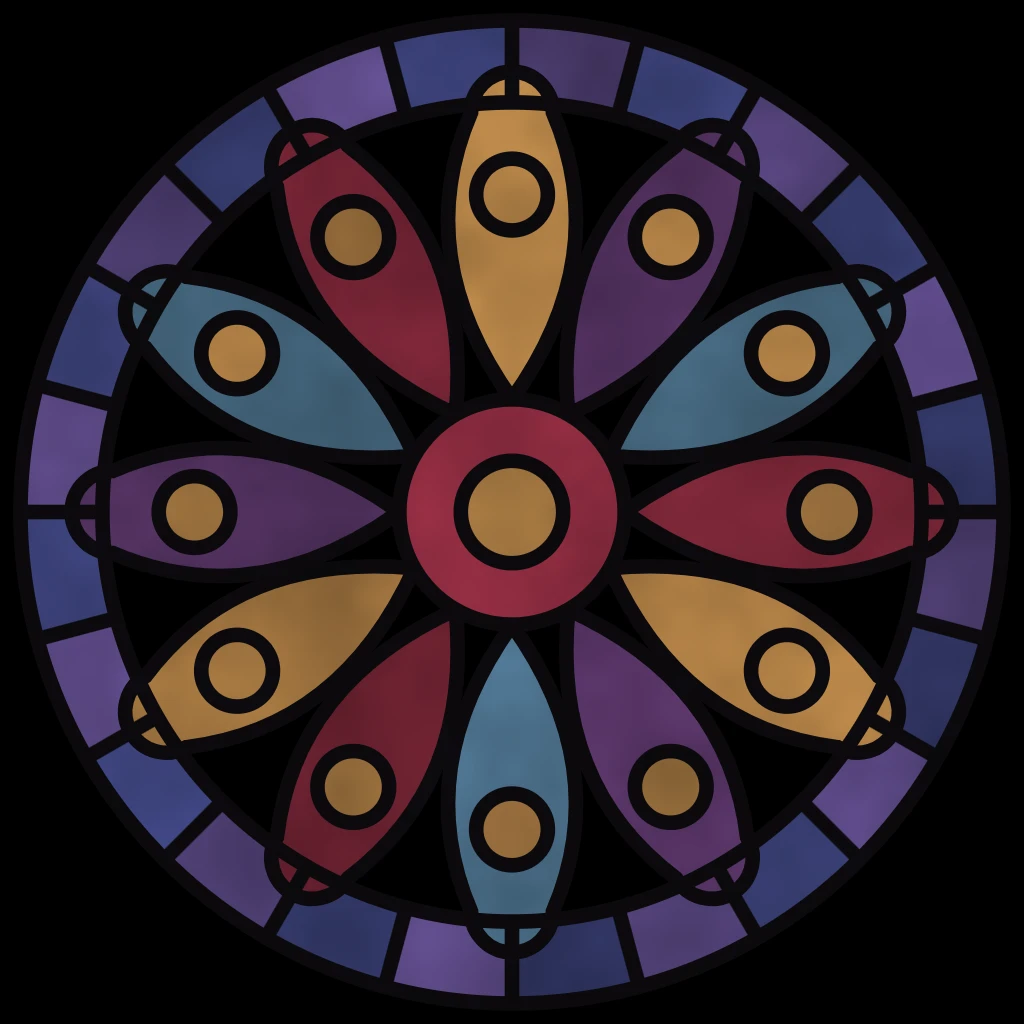
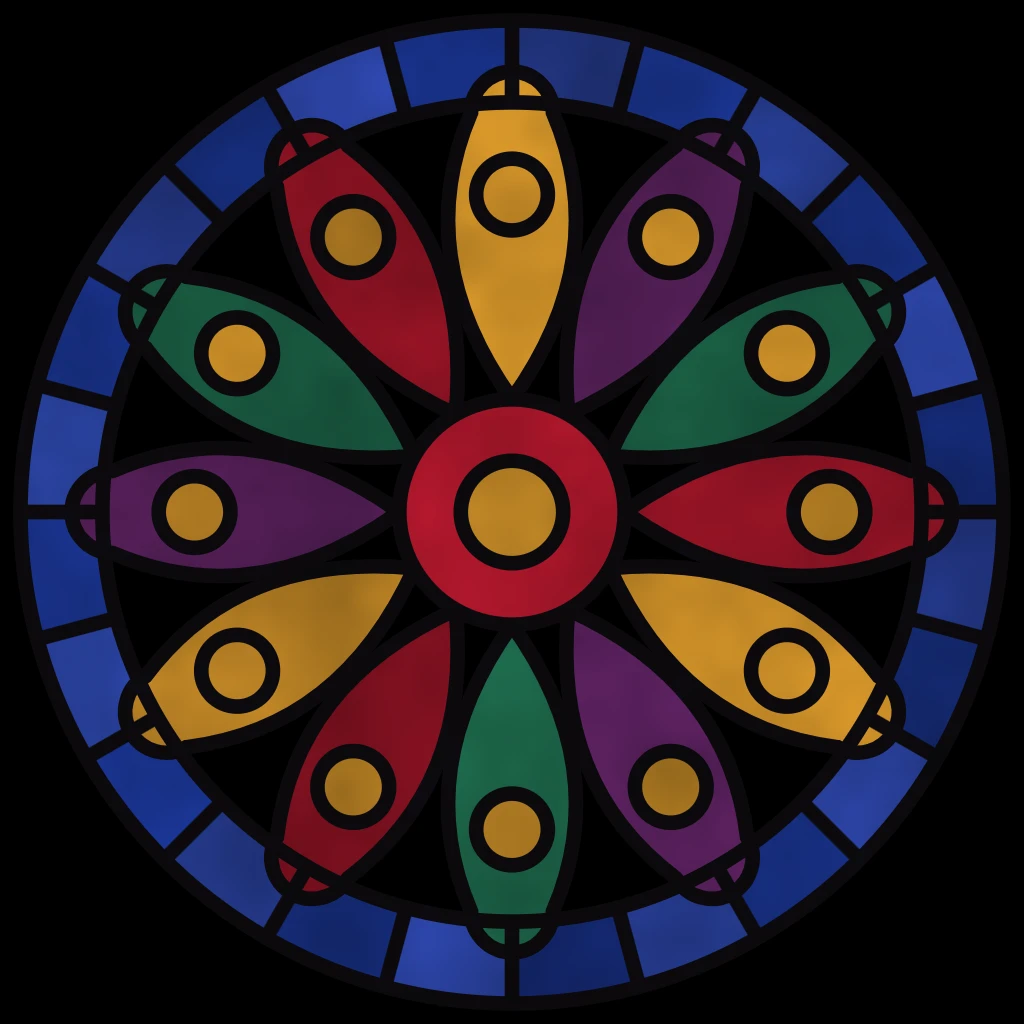
传火碑：碑光真正照亮场景（四段呼吸的烘焙光照体积，参与空气散射）、外缘光改成随机位置缓慢呼吸；柱子按实例编号取不同大理石纹理；后殿彩窗重做（小块玻璃拼铅条、几何圆框、红蓝花边、铁条）；散射强度回调

diff --git a/web/torch-bake.js b/web/torch-bake.js
@@ -33,18 +33,19 @@ export async function loadBaked(low){baked=null;record=window.__TORCH_BAKE?new M
   const ao=await inflate(await (await fetch(new URL(man.ao.file,BASE))).arrayBuffer());
   if(ao.length!==man.ao.dims[0]*man.ao.dims[1]*man.ao.dims[2])return {ok:false,reason:'ao-size'};
   const tl=await inflate(await (await fetch(new URL(man.torch.file,BASE))).arrayBuffer());if(tl.length!==man.torch.dims[0]*man.torch.dims[1]*man.torch.dims[2])return {ok:false,reason:'torch-size'};
-  baked={tex,ao:{data:ao,dims:man.ao.dims,box:man.ao.box},torch:{data:tl,dims:man.torch.dims,box:man.torch.box}};return {ok:true};}
+  const st=await inflate(await (await fetch(new URL(man.stele.file,BASE))).arrayBuffer());if(st.length!==man.stele.dims[0]*man.stele.dims[1]*man.stele.dims[2]*4)return {ok:false,reason:'stele-size'};
+  baked={tex,ao:{data:ao,dims:man.ao.dims,box:man.ao.box},torch:{data:tl,dims:man.torch.dims,box:man.torch.box},stele:{data:st,dims:man.stele.dims,box:man.stele.box}};return {ok:true};}
  catch(e){return {ok:false,reason:String(e&&e.message||e)};}}
 /* a set of maps by name: the baked images when there are some, else drawn now (and noted when baking) */
 export function maps(key,make){if(baked&&baked.tex[key])return baked.tex[key];const t0=performance.now();const o=make();if(record){record.set(key,o);console.log('BAKESTEP texture',key,Math.round(performance.now()-t0),'ms');}return o;}
-export function bakedAO(){return baked?{ao:baked.ao,torch:baked.torch}:null;}
+export function bakedAO(){return baked?{ao:baked.ao,torch:baked.torch,stele:baked.stele}:null;}
 export function recorded(){return record;}
 
 /* ---- ambient occlusion volume ----
    Solid surfaces are marked in a voxel grid (every triangle sampled finer than a cell, clipping planes honoured), then occlusion is how
    much more solid surrounds a cell than a single flat wall would (two box blurs, 1 and 3 cells): 1 in the open and on plain walls,
    darker in corners, under cornices, between columns, under the stele. */
-export function computeVolumes(scene,torches=[]){const {min,max,res}=AO_BOX,nx=Math.ceil((max[0]-min[0])/res),ny=Math.ceil((max[1]-min[1])/res),nz=Math.ceil((max[2]-min[2])/res),N=nx*ny*nz;
+export function computeVolumes(scene,torches=[],stele=[[],[],[],[]]){const {min,max,res}=AO_BOX,nx=Math.ceil((max[0]-min[0])/res),ny=Math.ceil((max[1]-min[1])/res),nz=Math.ceil((max[2]-min[2])/res),N=nx*ny*nz;
  const occ=new Float32Array(N),a=new THREE.Vector3(),b=new THREE.Vector3(),c=new THREE.Vector3(),p=new THREE.Vector3(),m=new THREE.Matrix4(),im=new THREE.Matrix4();
  scene.updateMatrixWorld(true);
  scene.traverse(o=>{if(!o.isMesh||o.userData.noAO)return;const mt=o.material;if(Array.isArray(mt)||!mt||!mt.isMeshStandardMaterial)return;
@@ -72,22 +73,28 @@ export function computeVolumes(scene,torches=[]){const {min,max,res}=AO_BOX,nx=M
    for(let q=1;q<n;q++){const f=q/n,dist=d*f;if(dist<.45||d-dist<.55)continue;if(solid(cx+dx*f,cy+dy*f,cz+dz*f)){tr2*=.2;if(tr2<.02)break;}}
    I+=tr2*(t.w||1)/(d2+.5);}
   tl[(k*ty+j)*tx+i]=Math.round(Math.sqrt(Math.min(1,I/2))*255);}
- return {ao:{data:out,dims:[nx,ny,nz],box:{min,max}},torch:{data:tl,dims:[tx,ty,tz],box:{min,max}}};}
+ /* the stele's own light, in four groups along its length (RGBA), so each part can breathe on its own at run time */
+ const sl=new Uint8Array(tx*ty*tz*4);
+ for(let k=0;k<tz;k++)for(let j=0;j<ty;j++)for(let i=0;i<tx;i++){const cx=min[0]+(i+.5)*tr,cy=min[1]+(j+.5)*tr,cz=min[2]+(k+.5)*tr,o=((k*ty+j)*tx+i)*4;
+  for(let g=0;g<4;g++){let I=0;for(const t of stele[g]||[]){const dx=t.x-cx,dy=t.y-cy,dz=t.z-cz,d2=dx*dx+dy*dy+dz*dz;if(d2>144)continue;const d=Math.sqrt(d2),n=Math.ceil(d/(res*.8));let tr2=1;
+    for(let q=1;q<n;q++){const f=q/n,dist=d*f;if(dist<.3||d-dist<.35)continue;if(solid(cx+dx*f,cy+dy*f,cz+dz*f)){tr2*=.2;if(tr2<.02)break;}}I+=tr2*(t.w||1)/(d2+.4);}
+   sl[o+g]=Math.round(Math.sqrt(Math.min(1,I/2))*255);}}
+ return {ao:{data:out,dims:[nx,ny,nz],box:{min,max}},torch:{data:tl,dims:[tx,ty,tz],box:{min,max}},stele:{data:sl,dims:[tx,ty,tz],box:{min,max}}};}
 
 /* sample the volume in every stone/marble material: indirect light (and a little of the direct) is darkened by it */
-const vol3d=v=>{const t=new THREE.Data3DTexture(v.data,...v.dims);t.format=THREE.RedFormat;t.type=THREE.UnsignedByteType;t.minFilter=t.magFilter=THREE.LinearFilter;
+const vol3d=(v,rgba=false)=>{const t=new THREE.Data3DTexture(v.data,...v.dims);t.format=rgba?THREE.RGBAFormat:THREE.RedFormat;t.type=THREE.UnsignedByteType;t.minFilter=t.magFilter=THREE.LinearFilter;
  t.wrapS=t.wrapT=t.wrapR=THREE.ClampToEdgeWrapping;t.unpackAlignment=1;t.needsUpdate=true;return t;};
-export function applyAO(scene,vols){const ao=vol3d(vols.ao),torch=vol3d(vols.torch),mn=vols.ao.box.min,mx=vols.ao.box.max;
+export function applyAO(scene,vols){const ao=vol3d(vols.ao),torch=vol3d(vols.torch),stele=vol3d(vols.stele,true),mn=vols.ao.box.min,mx=vols.ao.box.max;
  const uni={uAoVol:{value:ao},uTorchVol:{value:torch},uAoMin:{value:new THREE.Vector3(...mn)},uAoSize:{value:new THREE.Vector3(mx[0]-mn[0],mx[1]-mn[1],mx[2]-mn[2])},uAoStrength:{value:1},
-  uTorchColor:{value:new THREE.Color(0xa68ae8)},uTorchLevel:{value:0}};
+  uTorchColor:{value:new THREE.Color(0xa68ae8)},uTorchLevel:{value:0},uSteleVol:{value:stele},uSteleColor:{value:new THREE.Color(0x9a6cf0)},uSteleLevels:{value:new THREE.Vector4()}};
  const done=new Set();scene.traverse(o=>{const m=o.material;if(!m||Array.isArray(m)||!m.isMeshStandardMaterial||done.has(m))return;done.add(m);patch(m,uni);});
- return {textures:[ao,torch],uniforms:uni};}
-function patch(m,uni){m.onBeforeCompile=sh=>{Object.assign(sh.uniforms,uni);
+ return {textures:[ao,torch,stele],uniforms:uni};}
+function patch(m,uni){const prev=m.onBeforeCompile,prevKey=m.customProgramCacheKey.bind(m);m.onBeforeCompile=(sh,r)=>{prev.call(m,sh,r);Object.assign(sh.uniforms,uni);
  sh.vertexShader=sh.vertexShader.replace('#include <common>','#include <common>\nvarying vec3 vAoWorld;')
   .replace('#include <project_vertex>','#include <project_vertex>\n{vec4 aw=vec4(transformed,1.);\n#ifdef USE_INSTANCING\naw=instanceMatrix*aw;\n#endif\naw=modelMatrix*aw;vAoWorld=aw.xyz;}');
- sh.fragmentShader=sh.fragmentShader.replace('#include <common>','#include <common>\nvarying vec3 vAoWorld;uniform highp sampler3D uAoVol;uniform highp sampler3D uTorchVol;uniform vec3 uAoMin;uniform vec3 uAoSize;uniform float uAoStrength;uniform vec3 uTorchColor;uniform float uTorchLevel;')
+ sh.fragmentShader=sh.fragmentShader.replace('#include <common>','#include <common>\nvarying vec3 vAoWorld;uniform highp sampler3D uAoVol;uniform highp sampler3D uTorchVol;uniform vec3 uAoMin;uniform vec3 uAoSize;uniform float uAoStrength;uniform vec3 uTorchColor;uniform float uTorchLevel;uniform highp sampler3D uSteleVol;uniform vec3 uSteleColor;uniform vec4 uSteleLevels;')
   .replace('#include <aomap_fragment>',`{vec3 aoN=inverseTransformDirection(normal,viewMatrix);float vao=texture(uAoVol,clamp((vAoWorld+aoN*.33-uAoMin)/uAoSize,0.,1.)).r;
-   float tq=texture(uTorchVol,clamp((vAoWorld+aoN*.45-uAoMin)/uAoSize,0.,1.)).r;
+   float tq=texture(uTorchVol,clamp((vAoWorld+aoN*.45-uAoMin)/uAoSize,0.,1.)).r;vec4 sv=texture(uSteleVol,clamp((vAoWorld+aoN*.4-uAoMin)/uAoSize,0.,1.));
    float ambientOcclusion=mix(1.,vao,uAoStrength);
    #ifdef USE_AOMAP
    ambientOcclusion*=(texture2D(aoMap,vAoMapUv).r-1.)*aoMapIntensity+1.;
@@ -95,6 +102,7 @@ function patch(m,uni){m.onBeforeCompile=sh=>{Object.assign(sh.uniforms,uni);
    reflectedLight.indirectDiffuse*=ambientOcclusion;reflectedLight.directDiffuse*=mix(1.,ambientOcclusion,.3);
    /* baked torch light: what the old point lights gave (16 cd, 1/d²), with an average cosine of .6 */
    reflectedLight.indirectDiffuse+=uTorchColor*(uTorchLevel*16.*.6*tq*tq*2.)*BRDF_Lambert(material.diffuseColor)*mix(1.,ambientOcclusion,.5);
+   reflectedLight.indirectDiffuse+=uSteleColor*(dot(sv*sv*2.,uSteleLevels)*7.)*BRDF_Lambert(material.diffuseColor)*mix(1.,ambientOcclusion,.5);
    #if defined(USE_CLEARCOAT)
    clearcoatSpecularIndirect*=ambientOcclusion;
    #endif
@@ -102,16 +110,16 @@ function patch(m,uni){m.onBeforeCompile=sh=>{Object.assign(sh.uniforms,uni);
    {float dotNV=saturate(dot(geometryNormal,geometryViewDir));reflectedLight.indirectSpecular*=computeSpecularOcclusion(dotNV,ambientOcclusion,material.roughness);}
    #endif
   }`);};
- m.customProgramCacheKey=()=>'torch-ao';m.needsUpdate=true;}
+ m.customProgramCacheKey=()=>prevKey()+'|torch-ao';m.needsUpdate=true;}
 
 const b64=u8=>{let bin='';for(let i=0;i<u8.length;i+=8192)bin+=String.fromCharCode(...u8.subarray(i,i+8192));return btoa(bin);};
 /* used by tools/torch-bake.cjs inside a headless browser: every recorded canvas as webp, the volume deflated, and the manifest */
-export async function exportBake(scene,torches){const out={files:{},textures:{}};
+export async function exportBake(scene,torches,stele){const out={files:{},textures:{}};
  /* encode every canvas at once (the browser encodes off the main thread, in parallel) */
  const jobs=[];for(const [key,o] of record||[]){out.textures[key]={};for(const [f,c] of Object.entries(o)){if(!c||!c.toBlob)continue;
   const name=key+'.'+f+'.webp',q=f==='normal'?.96:.9;out.textures[key][f]=name;
   jobs.push(new Promise(r=>c.toBlob(r,'image/webp',q)).then(async blob=>{out.files[name]=b64(new Uint8Array(await blob.arrayBuffer()));}));}}
  const te=performance.now();await Promise.all(jobs);console.log('BAKESTEP encoded',jobs.length,'images',Math.round(performance.now()-te),'ms');
- const tv=performance.now();const vols=computeVolumes(scene,torches);console.log('BAKESTEP volumes',Math.round(performance.now()-tv),'ms');const zip=async u8=>new Uint8Array(await new Response(new Blob([u8]).stream().pipeThrough(new CompressionStream('deflate-raw'))).arrayBuffer());
- out.files['ao.bin']=b64(await zip(vols.ao.data));out.files['torch.bin']=b64(await zip(vols.torch.data));
- out.manifest={hash:await sourceHash(),textures:out.textures,ao:{file:'ao.bin',dims:vols.ao.dims,box:vols.ao.box,res:AO_BOX.res},torch:{file:'torch.bin',dims:vols.torch.dims,box:vols.torch.box,res:TORCH_RES}};return out;}
+ const tv=performance.now();const vols=computeVolumes(scene,torches,stele);console.log('BAKESTEP volumes',Math.round(performance.now()-tv),'ms');const zip=async u8=>new Uint8Array(await new Response(new Blob([u8]).stream().pipeThrough(new CompressionStream('deflate-raw'))).arrayBuffer());
+ out.files['ao.bin']=b64(await zip(vols.ao.data));out.files['torch.bin']=b64(await zip(vols.torch.data));out.files['stele.bin']=b64(await zip(vols.stele.data));
+ out.manifest={hash:await sourceHash(),textures:out.textures,ao:{file:'ao.bin',dims:vols.ao.dims,box:vols.ao.box,res:AO_BOX.res},torch:{file:'torch.bin',dims:vols.torch.dims,box:vols.torch.box,res:TORCH_RES},stele:{file:'stele.bin',dims:vols.stele.dims,box:vols.stele.box,res:TORCH_RES}};return out;}

diff --git a/web/torch-monument.js b/web/torch-monument.js
@@ -242,7 +242,7 @@ function buildScene({host,canvas,state,t,tier,reduced,gsap,onTier,bakeInfo=null}
  const tBuild=performance.now();const H=buildHall({scene,keep,tex,tier,maxAniso:8});const buildMs=performance.now()-tBuild;const {skipInMirror,floorMat,FL_W,FL_L,FL_Z}=H;
 
  /* ---- the stele (web/torch-hall.js) ---- */
- const {stele,slab,SW,SH,SD,basaltBody,bas}=buildStele({scene,keep,tier});
+ const {stele,slab,SW,SH,SD,basaltBody,bas,emit:steleEmit}=buildStele({scene,keep,tier});
  /* inscription surface: its own maps, redrawn per page */
  const LOW=tier==='low',FS=()=>tier==='low'?.5:1;
  const faceW=SW-.3,faceH=faceW*FH/FW,faceY=slab.position.y;
@@ -261,25 +261,29 @@ function buildScene({host,canvas,state,t,tier,reduced,gsap,onTier,bakeInfo=null}
  /* the stone's own light: a slow dark-violet swirl sealed inside the polished face (domain-warped noise, additive, dim enough that the
     names stay readable), a soft violet aura around the slab's outline, and a few motes of light drifting up off the face.
     Stronger at night (follows the torch level), barely there by day. */
- const auraU={uTime:{value:0},uI:{value:.3}};
+ const auraU={uTime:{value:0},uI:{value:.3},uLv:{value:new THREE.Vector4(1,1,1,1)}};
+ const breathPhase=[0,1,2,3].map(i=>[Math.random()*6.28,Math.random()*6.28,.5+i*.13+Math.random()*.2]);
  const NOISE=`float h(vec2 p){return fract(sin(dot(p,vec2(127.1,311.7)))*43758.5453);}
   float n(vec2 p){vec2 i=floor(p),f=fract(p);f=f*f*(3.-2.*f);return mix(mix(h(i),h(i+vec2(1,0)),f.x),mix(h(i+vec2(0,1)),h(i+vec2(1,1)),f.x),f.y);}
   float fbm(vec2 p){float s=0.,a=.5;for(int i=0;i<5;i++){s+=a*n(p);p=p*2.02+vec2(1.7,9.2);a*=.5;}return s;}`;
  const swirl=new THREE.Mesh(keep(new THREE.PlaneGeometry(faceW,faceH)),keep(new THREE.ShaderMaterial({transparent:true,depthWrite:false,blending:THREE.AdditiveBlending,fog:false,uniforms:auraU,
   vertexShader:`varying vec2 vUv;void main(){vUv=uv;gl_Position=projectionMatrix*modelViewMatrix*vec4(position,1.);}`,
-  fragmentShader:`uniform float uTime;uniform float uI;varying vec2 vUv;${NOISE}
+  fragmentShader:`uniform float uTime;uniform float uI;uniform vec4 uLv;varying vec2 vUv;${NOISE}
+   float lv(float x){vec4 w=exp(-pow((vec4(x)-vec4(.125,.375,.625,.875))/.17,vec4(2.)));return dot(w,uLv)/max(1e-3,dot(w,vec4(1.)));}
    void main(){vec2 p=vUv*vec2(5.,1.3);float t=uTime*.05;
     vec2 q=vec2(fbm(p+vec2(0.,t)),fbm(p+vec2(5.2,1.3)-t));vec2 r=vec2(fbm(p+3.5*q+vec2(1.7,9.2)+t*.8),fbm(p+3.5*q+vec2(8.3,2.8)-t*.6));float f=fbm(p+3.*r);
     vec3 c=vec3(.28,.09,.58)*pow(smoothstep(.55,.9,f),2.)*.55+vec3(.72,.52,1.)*pow(smoothstep(.76,.97,f),4.)*.45;
     float m=smoothstep(0.,.08,vUv.x)*smoothstep(1.,.92,vUv.x)*smoothstep(0.,.12,vUv.y)*smoothstep(1.,.88,vUv.y);
-    gl_FragColor=vec4(c*uI*.32*(.55+.45*m),1.);}`})));
+    gl_FragColor=vec4(c*uI*.32*(.55+.45*m)*(.35+.65*lv(vUv.x)),1.);}`})));
  swirl.position.set(0,faceY,SD/2+.003);swirl.renderOrder=4;stele.add(swirl);
  const AW=SW+2.4,AH=SH+2.0;
  const aura=new THREE.Mesh(keep(new THREE.PlaneGeometry(AW,AH)),keep(new THREE.ShaderMaterial({transparent:true,depthWrite:false,blending:THREE.AdditiveBlending,fog:false,uniforms:auraU,
   vertexShader:`varying vec2 vP;void main(){vP=position.xy;gl_Position=projectionMatrix*modelViewMatrix*vec4(position,1.);}`,
-  fragmentShader:`uniform float uTime;uniform float uI;varying vec2 vP;${NOISE}
+  fragmentShader:`uniform float uTime;uniform float uI;uniform vec4 uLv;varying vec2 vP;${NOISE}
+   float lv(float x){vec4 w=exp(-pow((vec4(x)-vec4(.125,.375,.625,.875))/.17,vec4(2.)));return dot(w,uLv)/max(1e-3,dot(w,vec4(1.)));}
    void main(){vec2 b=vec2(${(SW/2).toFixed(3)},${(SH/2).toFixed(3)});vec2 d=abs(vP)-b;float dist=length(max(d,0.))+min(max(d.x,d.y),0.);
-    float a=exp(-max(dist,0.)*2.6)*step(0.,dist);float wav=.7+.3*fbm(vP*.9+vec2(0.,uTime*.12));
+    float a=exp(-max(dist,0.)*2.6)*step(0.,dist);float s=vP.x*.55+(vP.x<0.?-vP.y:vP.y)*.55;float wav=smoothstep(.42,.78,fbm(vec2(s*.8,uTime*.07)));
+    wav*=lv(clamp(vP.x/${(SW).toFixed(3)}+.5,0.,1.));
     gl_FragColor=vec4(vec3(.36,.16,.70)*a*wav*uI*.3,1.);}`})));
  aura.position.set(0,faceY,-SD/2-.04);aura.renderOrder=1;stele.add(aura);
  /* motes off the face */
@@ -415,7 +419,7 @@ function buildScene({host,canvas,state,t,tier,reduced,gsap,onTier,bakeInfo=null}
    /* RenderPass writes into renderTarget2 (the read buffer; an even number of swaps per frame on the full tier) */
    if(!low)composer.renderTarget2.samples=4;
    composer.addPass(new RenderPass(scene,camera));
-   vol=new VolumetricPass({camera,light:H.sun,box:{min:[-14.5,0,-17.4],max:[14.5,38,40]},scale:low?.25:.5,steps:low?24:48});composer.addPass(vol);
+   vol=new VolumetricPass({camera,light:H.sun,box:{min:[-14.5,0,-17.4],max:[14.5,38,40]},scale:low?.25:.5,steps:low?24:48});composer.addPass(vol);if(aoUni)vol.setVolumes(aoUni);
    if(!low){bloom=new UnrealBloomPass(new THREE.Vector2(512,512),.5,.65,.85);composer.addPass(bloom);grade=new ShaderPass(GRADE);composer.addPass(grade);}
    composer.addPass(new OutputPass());}
   resize();queuePaint();}
@@ -467,7 +471,10 @@ function buildScene({host,canvas,state,t,tier,reduced,gsap,onTier,bakeInfo=null}
   if(dust){const u=dust.material.uniforms,L=H.sun;u.uTime.value=time;u.uBase.value=.05+H.state.torch*.06;
    u.uHasShadow.value=L.castShadow&&L.shadow.map?1:0;if(L.shadow.map){u.tShadow.value=L.shadow.map.texture;u.shadowMatrix.value.copy(L.shadow.matrix);}
    u.uLight.value.copy(L.color);u.uLit.value=Math.min(1.6,L.intensity*(H.state.moon?1.25:.45));}if(grade)grade.uniforms.uTime.value=time%97;
-  auraU.uTime.value=time;auraU.uI.value=.12+.88*H.state.torch;motes.material.uniforms.uPx.value=renderer.domElement.height/520;
+  auraU.uTime.value=time;auraU.uI.value=.12+.88*H.state.torch;
+  /* each quarter of the stele breathes on its own: slow, overlapping swells */
+  { const L=auraU.uLv.value,b=breathPhase;for(let i=0;i<4;i++){const v=.5+.5*Math.sin(time*.23*b[i][2]+b[i][0]),w=.5+.5*Math.sin(time*.13*b[i][2]+b[i][1]);L.setComponent(i,Math.pow(Math.min(1,v*.75+w*.45),2.2));}
+    if(aoUni)aoUni.uSteleLevels.value.copy(L).multiplyScalar(auraU.uI.value);}motes.material.uniforms.uPx.value=renderer.domElement.height/520;
   if(glow.userData.on){const p=(now-glow.userData.t0)/1000;const o=Math.min(1,p/1.2)*(.42+.1*Math.sin(p*1.6));glow.material.opacity=o;glowLight.intensity=o*2.2;}else{glow.material.opacity*=.9;glowLight.intensity*=.9;}
   updateCamera(dt);draw();
   /* slow frames on the full tier for ~3 s after the intro: switch to the light tier (only in auto mode) */
@@ -489,12 +496,12 @@ function buildScene({host,canvas,state,t,tier,reduced,gsap,onTier,bakeInfo=null}
   renderer.renderLists.dispose();renderer.dispose();renderer.forceContextLoss();}
 
  /* ambient occlusion from the baked volume (or worked out now when the bake does not match this build) */
- let aoUni=null;{ const t0=performance.now(),vols=bakedAO()||(window.__TORCH_BAKE?null:computeVolumes(scene,H.torchPoints));if(vols){const r=applyAO(scene,vols);r.textures.forEach(keep);aoUni=r.uniforms;}
+ let aoUni=null;{ const t0=performance.now(),vols=bakedAO()||(window.__TORCH_BAKE?null:computeVolumes(scene,H.torchPoints,steleEmit));if(vols){const r=applyAO(scene,vols);r.textures.forEach(keep);aoUni=r.uniforms;}
   aoInfo={baked:!!bakedAO(),ms:Math.round(performance.now()-t0),bake:bakeInfo};}
  applyTier();paintFace();
  /* compile every shader before the first frame (in parallel where the driver allows), so the intro never starts with a stall */
  let ready=false;
  /* the bake (tools/torch-bake.cjs) only needs the scene built: no shaders, no frames */
  const whenReady=window.__TORCH_BAKE?Promise.resolve():(renderer.compileAsync?renderer.compileAsync(scene,camera):Promise.resolve()).catch(()=>{}).then(()=>{ready=true;if(!disposed)setActive(true);});
- return {get tier(){return tier;},ready:whenReady,introSeconds:INTRO,intro,setActive,setTier,resize,pick,dispose,paintFace:()=>queuePaint(),lookAtFocus,setRead,reading:()=>!!view.read,dragged:()=>dragMoved,debug:{renderer,scene,camera,buildMs,torchPoints:H.torchPoints,get ao(){return aoInfo;}}};
+ return {get tier(){return tier;},ready:whenReady,introSeconds:INTRO,intro,setActive,setTier,resize,pick,dispose,paintFace:()=>queuePaint(),lookAtFocus,setRead,reading:()=>!!view.read,dragged:()=>dragMoved,debug:{renderer,scene,camera,buildMs,torchPoints:H.torchPoints,steleEmit,get ao(){return aoInfo;}}};
 }

diff --git a/web/torch-hall.js b/web/torch-hall.js
@@ -128,7 +128,11 @@ export function buildStele({scene,keep,tier}){const low=tier==='low',Q=low?.5:1,
  s.lineTo(-w/2+b,h/2);s.quadraticCurveTo(-w/2,h/2,-w/2,h/2-b);s.lineTo(-w/2,-h/2+b);s.quadraticCurveTo(-w/2,-h/2,-w/2+b,-h/2);
  const g=new THREE.ExtrudeGeometry(s,{depth:SD-.06,bevelEnabled:true,bevelThickness:.03,bevelSize:.03,bevelSegments:3,curveSegments:6});g.translate(0,0,-(SD-.06)/2);
  const slab=mesh(g,basaltBody,0,BASE_Y+SH/2,0);
- return {stele,slab,SW,SH,SD,basaltBody,bas};}
+ /* the stele's light comes off its face and its outline: points just in front of the face and around the edge, in four groups along x */
+ const emit=[[],[],[],[]],grp=x=>Math.max(0,Math.min(3,Math.floor((x+SW/2)/SW*4))),cy=BASE_Y+SH/2;
+ for(let x=-SW/2+.45;x<=SW/2-.4;x+=.85){for(const dy of [-.95,0,.95])emit[grp(x)].push({x,y:cy+dy,z:SD/2+.25,w:.1});emit[grp(x)].push({x,y:BASE_Y+SH+.25,z:0,w:.08});emit[grp(x)].push({x,y:cy,z:-SD/2-.25,w:.05});}
+ for(const sx of [-1,1])for(const dy of [-1.2,0,1.2])emit[grp(sx*SW/2*.99)].push({x:sx*(SW/2+.25),y:cy+dy,z:0,w:.08});
+ return {stele,slab,SW,SH,SD,basaltBody,bas,emit};}
 
 /* ---------- the hall ---------- */
 export function buildHall({scene,keep,tex,tier,maxAniso=8}){
@@ -144,7 +148,7 @@ export function buildHall({scene,keep,tex,tier,maxAniso=8}){
   nave=maps('naveVault',()=>coffers(1024*Q,1024*Q,{cols:6,rows:6,v0:0,v1:1})),
   col=maps('violetMarble',()=>marbleHQ(2048*HQ(),23,PAL.violet)),pale=maps('paleMarble',()=>marbleHQ(1024*HQ(),61,PAL.cream)),
   fl=maps('floor',()=>floorHQ(4096*HQ(),11,PAL.floor)),roseTex=T(maps('rose',()=>({map:rose(1024*Q,3)})).map),quarryTex=T(maps('quarries',()=>({map:quarries(256*Q,512*Q,9)})).map),
-  lanTex=T(maps('lancet',()=>({map:lancet(256*Q,640*Q,13)})).map);
+  lanTex=T(maps('lancet',()=>({map:lancet(Math.round(512*HQ()*2),Math.round(1280*HQ()*2),13)})).map);
  const stone=keep(new THREE.MeshStandardMaterial({map:T(ash.map),normalMap:T(ash.normal,false),roughnessMap:T(ash.rough,false),roughness:1,metalness:0,envMapIntensity:.35}));
  const stoneDark=keep(new THREE.MeshStandardMaterial({map:T(ashDark.map),normalMap:T(ashDark.normal,false),roughnessMap:T(ashDark.rough,false),roughness:1,metalness:0,envMapIntensity:.25}));
  const carved=keep(new THREE.MeshStandardMaterial({map:T(rel.map),normalMap:T(rel.normal,false),roughness:.82,metalness:0,envMapIntensity:.3}));
@@ -152,6 +156,18 @@ export function buildHall({scene,keep,tex,tier,maxAniso=8}){
  const violet=keep(new THREE.MeshPhysicalMaterial({map:T(col.map),roughnessMap:T(col.rough,false),normalMap:T(col.normal,false),roughness:1,metalness:0,clearcoat:low?0:.35,clearcoatRoughness:.12,envMapIntensity:.7}));
  /* shafts are 1.7 m round and 5 m tall: three repeats up the height keep the veins in proportion */
  for(const k of ['map','roughnessMap','normalMap'])violet[k].repeat.set(1,3);
+ /* every instance reads its own part of the texture (offset and scale from aPat); meshes without aPat read it as it is */
+ violet.onBeforeCompile=sh=>{sh.vertexShader=sh.vertexShader.replace('#include <common>',`#include <common>
+attribute vec3 aPat;`).replace('#include <uv_vertex>',`#include <uv_vertex>
+  #ifdef USE_MAP
+  vMapUv=vMapUv*(1.+aPat.z)+aPat.xy;
+  #endif
+  #ifdef USE_NORMALMAP
+  vNormalMapUv=vNormalMapUv*(1.+aPat.z)+aPat.xy;
+  #endif
+  #ifdef USE_ROUGHNESSMAP
+  vRoughnessMapUv=vRoughnessMapUv*(1.+aPat.z)+aPat.xy;
+  #endif`);};violet.customProgramCacheKey=()=>'violet-pattern';
  const capMat=keep(new THREE.MeshStandardMaterial({map:T(pale.map),color:0xefe6d6,roughness:.75,metalness:0,side:THREE.DoubleSide,envMapIntensity:.4}));
  const bask=maps('basketCapital',()=>basketRelief(1024,512,19));
  const basketMat=keep(new THREE.MeshStandardMaterial({map:T(bask.map),normalMap:T(bask.normal,false),roughness:.78,metalness:0,envMapIntensity:.4}));
@@ -170,7 +186,9 @@ export function buildHall({scene,keep,tex,tier,maxAniso=8}){
  const [roseMat,drumGlassMat,lanMat]=glass;
 
  const add=(geo,mat,pos,rot,{cast=true,recv=true}={})=>{const m=new THREE.Mesh(keep(geo),mat);if(pos)m.position.set(...pos);if(rot)m.rotation.set(...rot);m.castShadow=cast;m.receiveShadow=recv;hall.add(m);return m;};
- const inst=(geo,mat,list,{cast=true}={})=>{const m=new THREE.InstancedMesh(keep(geo),mat,list.length),o=new THREE.Object3D();
+ const inst=(geo,mat,list,{cast=true,pattern=false}={})=>{const m=new THREE.InstancedMesh(keep(geo),mat,list.length),o=new THREE.Object3D();
+  if(pattern){const pr=new Float32Array(list.length*3),rr=(i,k)=>{const v=Math.sin((i+1)*12.9898+k*78.233)*43758.5453;return v-Math.floor(v);};
+   for(let i=0;i<list.length;i++){pr[i*3]=rr(i,1);pr[i*3+1]=rr(i,2)*3;pr[i*3+2]=(rr(i,3)-.4)*.35;}m.geometry=keep(geo.clone());m.geometry.setAttribute('aPat',new THREE.InstancedBufferAttribute(pr,3));}
   list.forEach((p,i)=>{o.position.set(p[0],p[1],p[2]);o.rotation.set(p[4]||0,p[3]||0,p[5]||0);const s=p[6]||1;o.scale.set(s,s,s);o.updateMatrix();m.setMatrixAt(i,o.matrix);});
   m.instanceMatrix.needsUpdate=true;m.castShadow=cast;m.receiveShadow=true;hall.add(m);return m;};
  const box=(w,h,d)=>worldUV(new THREE.BoxGeometry(w,h,d),4);
@@ -188,7 +206,7 @@ export function buildHall({scene,keep,tex,tier,maxAniso=8}){
  const colZ=[];for(let z=BACK+2.6;z<NZ1-2;z+=1.7)if(Math.abs(z-(FRONT-.4))>1.6)colZ.push(z);
  const colP=[];for(const z of colZ)for(const sx of [-1,1])colP.push([sx*HX,0,z]);
  inst(plinthG,smooth,colP.map(p=>[p[0],.15,p[2]]));inst(new THREE.TorusGeometry(COL_R*1.36,.022,6,32).rotateX(Math.PI/2),smooth,colP.map(p=>[p[0],.305,p[2]]),{cast:false});inst(baseG,smooth,colP.map(p=>[p[0],.3,p[2]]));
- inst(shaftG,violet,colP.map(p=>[p[0],.3+COL_R*.5+COL_H/2,p[2]]));{const at=colP.map(p=>[p[0],.3+COL_R*.5+COL_H,p[2]]);inst(capG.bowl,basketMat,at);inst(capG.impost,smooth,at);}
+ inst(shaftG,violet,colP.map(p=>[p[0],.3+COL_R*.5+COL_H/2,p[2]]),{pattern:true});{const at=colP.map(p=>[p[0],.3+COL_R*.5+COL_H,p[2]]);inst(capG.bowl,basketMat,at);inst(capG.impost,smooth,at);}
  const CAP_TOP=.3+COL_R*.5+COL_H+COL_R*2.1+COL_R*.32;
 
  /* ---- the four piers, each with an engaged column on its two faces toward the bay ---- */
@@ -202,7 +220,7 @@ export function buildHall({scene,keep,tex,tier,maxAniso=8}){
     pil.push([px-sx*(1.2+PD/2),P0+PH/2,pz,Math.PI/2]);caps.push([px-sx*(1.2+PD),PTOP-CAPH/2,pz,Math.PI/2]);plinths.push([px-sx*(1.2+PD/2+.02),P0-.1,pz,Math.PI/2]);
     pil.push([px,P0+PH/2,pz+inZ*(1.2+PD/2),0]);caps.push([px,PTOP-CAPH/2,pz+inZ*(1.2+PD),0]);plinths.push([px,P0-.1,pz+inZ*(1.2+PD/2+.02),0]);
     for(let f=-2;f<=2;f++){const o=f*.17;flutes.push([px-sx*(1.2+PD+.005),P0+PH/2,pz+o,Math.PI/2]);flutes.push([px+o,P0+PH/2,pz+inZ*(1.2+PD+.005),0]);}}
-   inst(worldUV(new THREE.BoxGeometry(PW,PH,PD),4),violet,pil);inst(new THREE.BoxGeometry(PW+.14,.2,PD+.1),smooth,plinths);
+   inst(worldUV(new THREE.BoxGeometry(PW,PH,PD),4),violet,pil,{pattern:true});inst(new THREE.BoxGeometry(PW+.14,.2,PD+.1),smooth,plinths);
    inst(new THREE.BoxGeometry(.07,PH-.3,.012),keep(new THREE.MeshStandardMaterial({color:0x140c1a,roughness:.4,metalness:0})),flutes,{cast:false});
    /* capital: a moulded block with a band of carved leaves (the frieze relief) and an abacus */
    const capG=mergeGeometries([new THREE.BoxGeometry(PW+.08,CAPH*.62,.28).translate(0,-CAPH*.19,0),new THREE.BoxGeometry(PW+.26,CAPH*.18,.36).translate(0,CAPH*.21,0),

diff --git a/web/torch-volumetric.js b/web/torch-volumetric.js
@@ -11,6 +11,7 @@ const VS=`varying vec2 vUv;void main(){vUv=uv;gl_Position=projectionMatrix*model
 const MARCH=`#include <packing>
 uniform sampler2D tDepth;uniform sampler2D tShadow;uniform mat4 shadowMatrix;uniform mat4 projInv;uniform mat4 camWorld;uniform vec3 camPos;
 uniform vec3 lightDir;uniform vec3 color;uniform float density;uniform float time;uniform vec3 boxMin;uniform vec3 boxMax;uniform float maxDist;
+uniform float hasSun;uniform float hasVol;uniform highp sampler3D tTorch;uniform highp sampler3D tStele;uniform vec3 volMin;uniform vec3 volSize;uniform vec3 torchCol;uniform vec3 steleCol;uniform vec4 steleLv;uniform float volDensity;
 varying vec2 vUv;
 float ign(vec2 p){return fract(52.9829189*fract(dot(p,vec2(.06711056,.00583715))));}
 float h3(vec3 p){return fract(sin(dot(p,vec3(127.1,311.7,74.7)))*43758.5453);}
@@ -23,12 +24,14 @@ void main(){float d=texture2D(tDepth,vUv).x;vec4 v=projInv*vec4(vUv*2.-1.,d*2.-1
  if(tEnd<=ta){gl_FragColor=vec4(0.);return;}
  float stepL=(tEnd-ta)/float(STEPS),t=ta+stepL*ign(gl_FragCoord.xy+fract(time*7.)*61.);
  float c=dot(rd,lightDir),g=.6,hg=(1.-g*g)/(12.566*pow(1.+g*g-2.*g*c,1.5)),phase=mix(.0796,hg,.75);
- float acc=0.;
+ float acc=0.;vec3 glow=vec3(0.);
  for(int i=0;i<STEPS;i++){vec3 p=ro+rd*t;vec4 sc=shadowMatrix*vec4(p,1.);
-  if(sc.x>0.&&sc.x<1.&&sc.y>0.&&sc.y<1.&&sc.z<1.){float sd=unpackRGBAToDepth(texture2D(tShadow,sc.xy));
-   if(sc.z-.0012<sd){float dens=.45+.9*n3(p*.32+vec3(time*.05,time*.02,-time*.03));acc+=dens*stepL;}}
+  if(hasSun>.5&&sc.x>0.&&sc.x<1.&&sc.y>0.&&sc.y<1.&&sc.z<1.){float sd=unpackRGBAToDepth(texture2D(tShadow,sc.xy));
+   if(hasSun>.5&&sc.z-.0012<sd){float dens=.45+.9*n3(p*.32+vec3(time*.05,time*.02,-time*.03));acc+=dens*stepL;}}
+  if(hasVol>.5){vec3 q=clamp((p-volMin)/volSize,0.,1.);float tq=texture(tTorch,q).r;vec4 sv=texture(tStele,q);float dn=.5+.8*n3(p*.45+vec3(-time*.04,time*.05,time*.02));
+   glow+=(torchCol*tq*tq*.5+steleCol*dot(sv*sv*2.,steleLv))*dn*stepL;}
   t+=stepL;}
- gl_FragColor=vec4(color*acc*phase*density,1.);}`;
+ gl_FragColor=vec4(color*acc*phase*density+glow*volDensity*.0796,1.);}`;
 const BLUR=`uniform sampler2D tInput;uniform vec2 dir;varying vec2 vUv;
 void main(){vec3 s=texture2D(tInput,vUv).rgb*.2270;s+=(texture2D(tInput,vUv+dir*1.3846).rgb+texture2D(tInput,vUv-dir*1.3846).rgb)*.3162;
  s+=(texture2D(tInput,vUv+dir*3.2308).rgb+texture2D(tInput,vUv-dir*3.2308).rgb)*.0703;gl_FragColor=vec4(s,1.);}`;
@@ -39,15 +42,19 @@ export class VolumetricPass extends Pass{
   const rt=()=>new THREE.WebGLRenderTarget(1,1,{type:THREE.HalfFloatType,depthBuffer:false});this.rtA=rt();this.rtB=rt();
   this.marchMat=new THREE.ShaderMaterial({defines:{STEPS:steps},vertexShader:VS,fragmentShader:MARCH,depthTest:false,depthWrite:false,uniforms:{
    tDepth:{value:null},tShadow:{value:null},shadowMatrix:{value:new THREE.Matrix4()},projInv:{value:new THREE.Matrix4()},camWorld:{value:new THREE.Matrix4()},camPos:{value:new THREE.Vector3()},
-   lightDir:{value:new THREE.Vector3()},color:{value:new THREE.Color()},density:{value:.05},time:{value:0},boxMin:{value:new THREE.Vector3(...box.min)},boxMax:{value:new THREE.Vector3(...box.max)},maxDist:{value:70}}});
+   lightDir:{value:new THREE.Vector3()},color:{value:new THREE.Color()},density:{value:.05},hasSun:{value:0},hasVol:{value:0},tTorch:{value:null},tStele:{value:null},volMin:{value:new THREE.Vector3()},volSize:{value:new THREE.Vector3(1,1,1)},torchCol:{value:new THREE.Color()},steleCol:{value:new THREE.Color()},steleLv:{value:new THREE.Vector4()},volDensity:{value:.03},time:{value:0},boxMin:{value:new THREE.Vector3(...box.min)},boxMax:{value:new THREE.Vector3(...box.max)},maxDist:{value:70}}});
   this.blurMat=new THREE.ShaderMaterial({vertexShader:VS,fragmentShader:BLUR,depthTest:false,depthWrite:false,uniforms:{tInput:{value:null},dir:{value:new THREE.Vector2()}}});
   this.compMat=new THREE.ShaderMaterial({vertexShader:VS,fragmentShader:COMP,depthTest:false,depthWrite:false,transparent:true,blending:THREE.AdditiveBlending,uniforms:{tInput:{value:null}}});
   this.march=new FullScreenQuad(this.marchMat);this.blur=new FullScreenQuad(this.blurMat);this.comp=new FullScreenQuad(this.compMat);}
  setSize(w,h){const W=Math.max(1,Math.round(w*this.scale)),H=Math.max(1,Math.round(h*this.scale));this.rtA.setSize(W,H);this.rtB.setSize(W,H);this.px=[1/W,1/H];}
- render(renderer,writeBuffer,readBuffer){const L=this.light;
-  if(!L.castShadow||!L.shadow.map||!readBuffer.depthTexture||this.strength*L.intensity<.002)return;
-  const u=this.marchMat.uniforms,cam=this.camera;
-  u.tDepth.value=readBuffer.depthTexture;u.tShadow.value=L.shadow.map.texture;u.shadowMatrix.value.copy(L.shadow.matrix);
+ /* baked light volumes (torch-bake.js): the air near the torches and the stele scatters their light too */
+ setVolumes(u){const m=this.marchMat.uniforms;m.tTorch.value=u.uTorchVol.value;m.tStele.value=u.uSteleVol.value;m.volMin.value.copy(u.uAoMin.value);m.volSize.value.copy(u.uAoSize.value);this.volU=u;}
+ render(renderer,writeBuffer,readBuffer){const L=this.light;if(!readBuffer.depthTexture)return;
+  const u=this.marchMat.uniforms,cam=this.camera,sun=!!(L.castShadow&&L.shadow.map&&this.strength*L.intensity>.002),V=this.volU;
+  if(V){u.torchCol.value.copy(V.uTorchColor.value).multiplyScalar(V.uTorchLevel.value*16*.6);u.steleCol.value.copy(V.uSteleColor.value).multiplyScalar(7);u.steleLv.value.copy(V.uSteleLevels.value);}
+  const vol=!!(V&&u.tTorch.value&&(V.uTorchLevel.value>.01||V.uSteleLevels.value.lengthSq()>1e-4));
+  if(!sun&&!vol)return;u.hasSun.value=sun?1:0;u.hasVol.value=vol?1:0;
+  u.tDepth.value=readBuffer.depthTexture;if(sun){u.tShadow.value=L.shadow.map.texture;u.shadowMatrix.value.copy(L.shadow.matrix);}
   u.projInv.value.copy(cam.projectionMatrixInverse);u.camWorld.value.copy(cam.matrixWorld);u.camPos.value.setFromMatrixPosition(cam.matrixWorld);
   u.lightDir.value.copy(L.position).sub(L.target.position).normalize();u.color.value.copy(L.color).multiplyScalar(L.intensity*this.strength);u.time.value=performance.now()/1000;
   const auto=renderer.autoClear;renderer.autoClear=false;

diff --git a/web/torch-textures.js b/web/torch-textures.js
@@ -102,7 +102,7 @@ export function coffers(w,h,{cols=24,rows=6,v0=.1,v1=.92,field=[44,38,72],frame=
  return {map,normal:heightToNormal(H,w,h,6)};}
 
 /* ---- stained glass: a rose window (radial tracery) and a lancet; muted jewel colours, dark leading ---- */
-const GLASS=[[58,64,118],[96,58,112],[128,40,58],[176,128,70],[70,104,128],[88,70,128],[160,146,110]];
+const GLASS=[[24,48,132],[96,36,100],[150,20,38],[200,140,40],[26,92,66],[40,62,150],[206,204,190]];
 export function rose(size,seed,{petals=12}={}){const c=canvas2d(size,size),g=c.getContext('2d'),r=rng(seed),R=size/2;g.translate(R,R);
  g.fillStyle='#000';g.fillRect(-R,-R,size,size);
  const cell=(path,col)=>{const k=.82+r()*.3;g.fillStyle=`rgb(${col[0]*k|0},${col[1]*k|0},${col[2]*k|0})`;path();g.fill();};
@@ -127,14 +127,40 @@ export function quarries(w,h,seed){const c=canvas2d(w,h),g=c.getContext('2d'),r=
   g.fillStyle=`rgb(${226*k|0},${222*k|0},${232*k|0})`;g.beginPath();g.moveTo(x+ox,y-cell/2);g.lineTo(x+ox+cell/2,y);g.lineTo(x+ox,y+cell/2);g.lineTo(x+ox-cell/2,y);g.closePath();g.fill();}
  g.strokeStyle='#2a2630';g.lineWidth=w/90;for(let d=-h;d<w+h;d+=cell){g.beginPath();g.moveTo(d,0);g.lineTo(d+h*.5,h);g.stroke();g.beginPath();g.moveTo(d,0);g.lineTo(d-h*.5,h);g.stroke();}
  g.lineWidth=w/18;g.strokeRect(0,0,w,h);return c;}
-export function lancet(w,h,seed){const c=canvas2d(w,h),g=c.getContext('2d'),r=rng(seed);g.fillStyle='#000';g.fillRect(0,0,w,h);
- const cols=3,rowsN=9,cw=w/cols,rh=h/rowsN;
- for(let i=0;i<rowsN;i++)for(let j=0;j<cols;j++){const col=GLASS[(i*2+j*3+(r()*2|0))%GLASS.length],k=.75+r()*.35;g.fillStyle=`rgb(${col[0]*k|0},${col[1]*k|0},${col[2]*k|0})`;g.fillRect(j*cw,i*rh,cw,rh);}
- /* medallions */
- for(const cy of [h*.3,h*.62]){g.fillStyle='rgb(150,30,52)';g.beginPath();g.arc(w/2,cy,w*.34,0,Math.PI*2);g.fill();g.fillStyle='rgb(196,150,70)';g.beginPath();g.arc(w/2,cy,w*.2,0,Math.PI*2);g.fill();
-  g.strokeStyle='#08060a';g.lineWidth=w/30;g.beginPath();g.arc(w/2,cy,w*.34,0,Math.PI*2);g.stroke();g.beginPath();g.arc(w/2,cy,w*.2,0,Math.PI*2);g.stroke();}
- g.strokeStyle='#08060a';g.lineWidth=w/40;for(let i=1;i<rowsN;i++){g.beginPath();g.moveTo(0,i*rh);g.lineTo(w,i*rh);g.stroke();}for(let j=1;j<cols;j++){g.beginPath();g.moveTo(j*cw,0);g.lineTo(j*cw,h);g.stroke();}
- g.lineWidth=w/14;g.strokeRect(0,0,w,h);return c;}
+/* medieval lancet (the Chartres kind): the light is a mosaic of small irregular pieces of pot-metal glass (a jittered Voronoi), mostly
+   deep blue, held by lead cames of uneven width; three geometric medallions (circle, quatrefoil, lozenge) with a ruby ground and a pale
+   rim; a border of alternating ruby and blue blocks with white pearls; iron saddle bars across. Each piece has its own tint and streaks. */
+export function lancet(w,h,seed){const r=rng(seed),fbm=makeNoise(seed+5),c=canvas2d(w,h),g=c.getContext('2d'),img=g.createImageData(w,h),d=img.data;
+ const BLUE=[24,48,132],DEEP=[16,30,96],RUBY=[150,20,38],MURREY=[96,36,100],EMER=[26,92,66],AMBER=[200,140,40],PALE=[206,204,190];
+ const pick=(list)=>{let t=r()*list.reduce((a,b)=>a+b[1],0);for(const [c2,wt] of list){t-=wt;if(t<=0)return c2;}return list[0][0];};
+ const bw=w*.1,R=w*.34,meds=[[w/2,h*.2,0],[w/2,h*.5,1],[w/2,h*.8,2]];
+ /* signed distance to each medallion's outline (negative inside) */
+ const sd=(m,x,y)=>{const dx=x-m[0],dy=y-m[1];if(m[2]===0)return Math.hypot(dx,dy)-R;
+  if(m[2]===1){let v=1e9;for(const [ox,oy] of [[1,0],[-1,0],[0,1],[0,-1]])v=Math.min(v,Math.hypot(dx-ox*R*.46,dy-oy*R*.46)-R*.56);return v;}
+  return (Math.abs(dx)+Math.abs(dy))/Math.SQRT2-R*.86;};
+ const region=(x,y)=>{if(x<bw||x>w-bw)return 'border';for(const m of meds){const s=sd(m,x,y);if(s<-w*.035)return 'med';if(s<0)return 'rim';}return 'field';};
+ const colorFor=(x,y)=>{const rg=region(x,y);
+  if(rg==='border')return (Math.floor(y/(bw*1.25))%2)?RUBY:BLUE;
+  if(rg==='rim')return PALE;
+  if(rg==='med')return pick([[RUBY,6],[BLUE,2],[AMBER,1.2],[EMER,1],[PALE,.8],[MURREY,1]]);
+  return pick([[BLUE,7],[DEEP,3],[RUBY,1],[MURREY,1.2],[EMER,.5],[AMBER,.3]]);};
+ /* jittered grid of glass pieces, smaller inside the medallions */
+ const cs=Math.max(8,Math.round(w/20)),gx=Math.ceil(w/cs)+2,gy=Math.ceil(h/cs)+2,S=[];
+ for(let j=0;j<gy;j++)for(let i=0;i<gx;i++){const x=(i-1+.15+r()*.7)*cs,y=(j-1+.15+r()*.7)*cs;S.push({x,y,c:colorFor(Math.min(w-1,Math.max(0,x)),Math.min(h-1,Math.max(0,y))),k:.78+r()*.4,s:r()*10});}
+ const lead=Math.max(1.4,w/240);
+ for(let y=0;y<h;y++)for(let x=0;x<w;x++){const ci=Math.floor(x/cs)+1,cj=Math.floor(y/cs)+1;let d1=1e9,d2=1e9,best=null;
+  for(let dj=-1;dj<=1;dj++)for(let di=-1;di<=1;di++){const s=S[(cj+dj)*gx+(ci+di)];if(!s)continue;const dd=Math.hypot(x-s.x,y-s.y);if(dd<d1){d2=d1;d1=dd;best=s;}else if(dd<d2)d2=dd;}
+  const o=(y*w+x)*4;let col=best.c,k=best.k*(.82+.32*fbm(x/w*3+best.s,y/h*9,4,3))*(.92+.16*Math.sin(y*.09+best.s*3));
+  /* the same colour must not run across a lead: pieces bordering their region boundary are cut by a heavier came */
+  let L=(d2-d1)<lead;let edge=1e9;if(x<bw+3&&x>bw-3||x>w-bw-3&&x<w-bw+3)edge=0;for(const m of meds)edge=Math.min(edge,Math.abs(sd(m,x,y)),Math.abs(sd(m,x,y)+w*.035));
+  if(edge<lead*1.6)L=true;if(x<lead*2.5||x>w-lead*2.5)L=true;
+  const bar=[1,2,3,4,5,6].some(q=>Math.abs(y-h*q/7)<h*.006);
+  if(L||bar){const v=bar?14:10;d[o]=v;d[o+1]=v;d[o+2]=v+2;d[o+3]=255;continue;}
+  d[o]=col[0]*k;d[o+1]=col[1]*k;d[o+2]=col[2]*k;d[o+3]=255;}
+ g.putImageData(img,0,0);
+ /* white pearls down the middle of the border */
+ for(const bx of [bw/2,w-bw/2])for(let y=bw*.6;y<h;y+=bw*1.25){g.fillStyle='rgb(214,210,196)';g.beginPath();g.arc(bx,y,bw*.2,0,Math.PI*2);g.fill();g.strokeStyle='#0c0a0e';g.lineWidth=lead;g.stroke();}
+ return c;}
 
 /* ---- marble ---- */
 export function marble(size,seed,{base=[16,18,22],vein=[86,92,104],veinK=7,warp=2.6}={}){const fbm=makeNoise(seed);

diff --git a/docs/torch-monument.md b/docs/torch-monument.md
@@ -41,6 +41,9 @@
 - **体积光**（`torch-volumetric.js`）：沿每个像素的视线逐步采样太阳 / 月亮的阴影图，光柱的形状由窗户决定。
 - **火**：体积火（在一个盒子里对 3D 噪声做光线步进，按温度着色），配色是最初定的暗紫色调：边缘深紫、中间紫色、焰心淡薰衣草白，火光颜色 `#a68ae8`；另有火星。
 - **石碑自带的微光**：碑面后面叠一层很暗的紫色流光（多层扭曲噪声，缓慢流动），碑的轮廓外沿有淡紫辉光，碑面偶尔飘起细小光点。强度跟着火把亮度走，夜里明显、白天几乎不可见。参数在 `torch-monument.js` 的 `auraU` 附近（流光强度 `*.32`，辉光 `*.3`）。
+- **碑光**：碑面和外缘的发光点分四段烘焙进 `stele.bin`（RGBA 四通道带遮挡的光照体积），运行时每段按自己的节奏缓慢呼吸，照亮台阶 / 台基 / 地面 / 柱子；体积光步进时也采样这张体积和火把光体积，碑和火把周围的空气会透出光雾（强度 `torch-volumetric.js` 的 `volDensity`）。
+- **柱子纹理各不相同**：同一张大理石贴图，每根柱子 / 壁柱按实例编号取不同偏移和缩放（几何体上的 `aPat` 属性，类似皮肤图案编号）。
+- **彩窗**：后殿尖拱窗是 `torch-textures.js` 的 `lancet()`，不规则小块玻璃拼成，铅条粗细不一，三个几何圆框，红蓝花边，横向铁条。
 - **空气里的微粒**：每颗微粒都去采样日光 / 月光的阴影图，被照到的会亮起并带上光的颜色，没照到的只是很淡的一点；夜里月光光柱里会浮现一粒粒亮尘。火只在墙上和柱上的火把里（台阶旁原来的两个火盆已去掉），火把光是烘焙好的体积，场景里没有实时点光源。
 
 **预烘焙（关键）**：
@@ -76,5 +79,6 @@
    - 太阳算法：`solar()`。月亮：`sunAt()`。纬度表：`LAT`。
    - 体积光强度：`torch-volumetric.js` 里的 `density` 参数，以及 `torch-monument.js` 每帧设置的 `vol.strength`。
 4. **调材质颜色**：大理石配色在 `torch-hall.js` 的 `PAL`（violet = 帕沃纳佐柱子，cream = 台阶 / 碑座，floor = 地面）。改完要重新烘焙。
-5. **截图检查**（不在屏幕上弹窗）：用无头 Chrome 开真实应用外壳，并用 `window.__TORCH_HOUR = 小时数` 指定时间。我用的脚本在 `H:\MeguLit-Work\torch-shots\shot.cjs`，不在仓库里，有需要可以搬进 `tools/`。
-6. **性能**：在省电档基础上还可以继续降的地方：`torch-volumetric.js` 的 `steps`；`applyTier()` 里的阴影尺寸和像素比。
+5. **语法检查**：web 里的 `torch-*.js` 是 ES 模块，`node --check` 会按 CommonJS 处理漏报错误，要复制成 `.mjs` 再检查。
+6. **截图检查**（不在屏幕上弹窗）：用无头 Chrome 开真实应用外壳，并用 `window.__TORCH_HOUR = 小时数` 指定时间。我用的脚本在 `H:\MeguLit-Work\torch-shots\shot.cjs`，不在仓库里，有需要可以搬进 `tools/`。
+7. **性能**：在省电档基础上还可以继续降的地方：`torch-volumetric.js` 的 `steps`；`applyTier()` 里的阴影尺寸和像素比。
